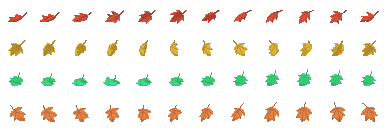
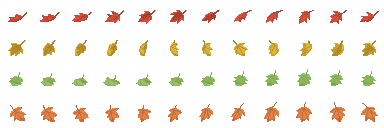
`

diff --git a/demo/leaves.js b/demo/leaves.js
@@ -29,15 +29,15 @@ export function initLeaves(gl, canvas, camera) {
     const MAXGENSIZE = 2;
     const STRIDE = 13;
     const particleParams = {
-        count: 1000,
-        duration: 12,
-        lifeTime: 12,
+        count: 400,
+        duration: 20,
+        lifeTime: 20,
         minSize: 30,
         maxSize: 50,
         startLinVel:[0,-5,0],
         color:[1,1,1],
         emitterSize: 64,
-        emitterHeight: 70
+        emitterHeight: 170
     }
     const MAXCOL = sqrtFloor(particleParams.count);
 
@@ -297,24 +297,24 @@ export function initLeaves(gl, canvas, camera) {
             bkgMaterial.postDraw(gl);
 
             // draw particle
-            gl.enable(gl.BLEND);
-            gl.blendFunc(gl.SRC_ALPHA, gl.ONE_MINUS_SRC_ALPHA);
-            gl.blendEquation(gl.FUNC_ADD);
+            // gl.enable(gl.BLEND);
+            // gl.blendFunc(gl.SRC_ALPHA, gl.ONE_MINUS_SRC_ALPHA);
+            // gl.blendEquation(gl.FUNC_ADD);
 
             particleMaterial.preDraw(gl, camera);
             particleShape.draw(gl, particleMaterial);
             particleMaterial.postDraw(gl);
 
-            gl.disable(gl.BLEND);
+            // gl.disable(gl.BLEND);
 
             // draw quad
-            emitterQuadMaterial.preDraw(gl, camera, emitterTransform);
-            emitterQuadShape.draw(gl, emitterQuadMaterial);
-            emitterQuadMaterial.postDraw(gl);
-
-            groundQuadMaterial.preDraw(gl, camera);
-            groundQuadShape.draw(gl, groundQuadMaterial);
-            groundQuadMaterial.postDraw(gl);
+            // emitterQuadMaterial.preDraw(gl, camera, emitterTransform);
+            // emitterQuadShape.draw(gl, emitterQuadMaterial);
+            // emitterQuadMaterial.postDraw(gl);
+            //
+            // groundQuadMaterial.preDraw(gl, camera);
+            // groundQuadShape.draw(gl, groundQuadMaterial);
+            // groundQuadMaterial.postDraw(gl);
 
 
             solverMaterial.setUniform('uDeltaTime', time.Interval);

diff --git a/demo/rain.js b/demo/rain.js
@@ -30,16 +30,16 @@ export function initRain(gl, canvas, camera) {
     const STRIDE = 13;
     const particleParams = {
         count: 1000,
-        duration: 8,
-        lifeTime: 8,
+        duration: 20,
+        lifeTime: 20,
         minSize: 60,
         maxSize: 80,
-        startLinVel:[60,-90,0],
+        startLinVel:[-20,0,0],
         color:[1,1,1],
         pixelNum:32,
         rainHeadSize:0.16,
-        emitterSize: 64,
-        emitterHeight: 70
+        emitterSize: 90,
+        emitterHeight: 20
     }
     const MAXCOL = sqrtFloor(particleParams.count);
 
@@ -268,9 +268,9 @@ export function initRain(gl, canvas, camera) {
         bkgMaterial.postDraw(gl);
 
         // draw particle
-        gl.enable(gl.BLEND);
-        gl.blendFunc(gl.SRC_ALPHA, gl.ONE);
-        gl.blendEquation(gl.FUNC_ADD);
+        // gl.enable(gl.BLEND);
+        // gl.blendFunc(gl.SRC_ALPHA, gl.ONE);
+        // gl.blendEquation(gl.FUNC_ADD);
 
         particleMaterial.preDraw(gl, camera);
         particleShape.draw(gl, particleMaterial);
@@ -279,13 +279,13 @@ export function initRain(gl, canvas, camera) {
         gl.disable(gl.BLEND);
 
         // draw quad
-        emitterQuadMaterial.preDraw(gl, camera, emitterTransform);
-        emitterQuadShape.draw(gl, emitterQuadMaterial);
-        emitterQuadMaterial.postDraw(gl);
-
-        groundQuadMaterial.preDraw(gl, camera);
-        groundQuadShape.draw(gl, groundQuadMaterial);
-        groundQuadMaterial.postDraw(gl);
+        // emitterQuadMaterial.preDraw(gl, camera, emitterTransform);
+        // emitterQuadShape.draw(gl, emitterQuadMaterial);
+        // emitterQuadMaterial.postDraw(gl);
+        //
+        // groundQuadMaterial.preDraw(gl, camera);
+        // groundQuadShape.draw(gl, groundQuadMaterial);
+        // groundQuadMaterial.postDraw(gl);
 
 
         solverMaterial.setUniform('uDeltaTime', time.Interval);

diff --git a/demo/snow.js b/demo/snow.js
@@ -30,8 +30,8 @@ export function initSnow(gl, canvas, camera) {
     const STRIDE = 13;
     const particleParams = {
         count: 1000,
-        duration: 12,
-        lifeTime: 12,
+        duration: 20,
+        lifeTime: 20,
         minSize: 12,
         maxSize: 20,
         startLinVel:[0,0,0],
@@ -40,7 +40,7 @@ export function initSnow(gl, canvas, camera) {
         pixelNum: 4,
         color:[0.85,0.85,0.85],
         emitterSize: 64,
-        emitterHeight: 70
+        emitterHeight: 170
     }
     const MAXCOL = sqrtFloor(particleParams.count);
 
@@ -270,24 +270,24 @@ export function initSnow(gl, canvas, camera) {
         bkgMaterial.postDraw(gl);
 
         // draw particle
-        gl.enable(gl.BLEND);
-        gl.blendFunc(gl.SRC_ALPHA, gl.ONE_MINUS_SRC_ALPHA);
-        gl.blendEquation(gl.FUNC_ADD);
+        // gl.enable(gl.BLEND);
+        // gl.blendFunc(gl.SRC_ALPHA, gl.ONE_MINUS_SRC_ALPHA);
+        // gl.blendEquation(gl.FUNC_ADD);
 
         particleMaterial.preDraw(gl, camera);
         particleShape.draw(gl, particleMaterial);
         particleMaterial.postDraw(gl);
 
-        gl.disable(gl.BLEND);
+        // gl.disable(gl.BLEND);
 
         // draw quad
-        emitterQuadMaterial.preDraw(gl, camera, emitterTransform);
-        emitterQuadShape.draw(gl, emitterQuadMaterial);
-        emitterQuadMaterial.postDraw(gl);
-
-        groundQuadMaterial.preDraw(gl, camera);
-        groundQuadShape.draw(gl, groundQuadMaterial);
-        groundQuadMaterial.postDraw(gl);
+        // emitterQuadMaterial.preDraw(gl, camera, emitterTransform);
+        // emitterQuadShape.draw(gl, emitterQuadMaterial);
+        // emitterQuadMaterial.postDraw(gl);
+        //
+        // groundQuadMaterial.preDraw(gl, camera);
+        // groundQuadShape.draw(gl, groundQuadMaterial);
+        // groundQuadMaterial.postDraw(gl);
 
 
 

diff --git a/demo/flowers.js b/demo/flowers.js
@@ -29,15 +29,15 @@ export function initFlowers(gl, canvas, camera) {
     const MAXGENSIZE = 2;
     const STRIDE = 13;
     const particleParams = {
-        count: 1000,
-        duration: 12,
-        lifeTime: 12,
-        minSize: 30,
-        maxSize: 50,
+        count: 400,
+        duration: 20,
+        lifeTime: 20,
+        minSize: 20,
+        maxSize: 35,
         startLinVel:[0,-5,0],
         color:[1,1,1],
         emitterSize: 64,
-        emitterHeight: 70
+        emitterHeight: 170
     }
     const MAXCOL = sqrtFloor(particleParams.count);
 
@@ -312,13 +312,13 @@ export function initFlowers(gl, canvas, camera) {
             gl.disable(gl.BLEND);
 
             // draw quad
-            emitterQuadMaterial.preDraw(gl, camera, emitterTransform);
-            emitterQuadShape.draw(gl, emitterQuadMaterial);
-            emitterQuadMaterial.postDraw(gl);
-
-            groundQuadMaterial.preDraw(gl, camera);
-            groundQuadShape.draw(gl, groundQuadMaterial);
-            groundQuadMaterial.postDraw(gl);
+            // emitterQuadMaterial.preDraw(gl, camera, emitterTransform);
+            // emitterQuadShape.draw(gl, emitterQuadMaterial);
+            // emitterQuadMaterial.postDraw(gl);
+            //
+            // groundQuadMaterial.preDraw(gl, camera);
+            // groundQuadShape.draw(gl, groundQuadMaterial);
+            // groundQuadMaterial.postDraw(gl);
 
 
             solverMaterial.setUniform('uDeltaTime', time.Interval);

diff --git a/app.js b/app.js
@@ -45,7 +45,7 @@ function main() {
     camera.updateViewInverse();
 
 
-    switchEffect("snow");
+    switchEffect("rain");
 
     function switchEffect(name) {
         const fx = effects[name];
